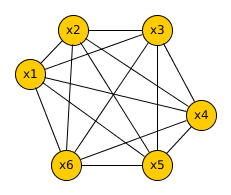
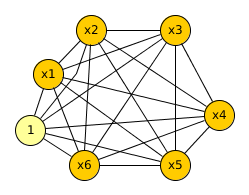
Poprawka obrazków, dodanie biasu

Changed region(s): [[0.0606, 0.0615, 0.9697, 0.9538], [0.2121, 0.2462, 0.2424, 0.2769]]

diff --git a/doc/rpt_ntwon.tex b/doc/rpt_ntwon.tex
@@ -60,12 +60,15 @@ Uczenie takiego modelu było bardzo trudne i długotrwałe, a jakość wyników 
 (jak na taki czas generowania modelu). Ograniczono, więc liczbę połączeń w sieci, wierzchołki podzielono
 na dwie grupy warstwę widoczną i warstwę ukrytą. W nowym modelu ograniczonej maszynie Boltzmanna (ang.
 \textit{Restricted Boltzmann Machine}) usunięto wszystkie połączenia pomiędzy neuronami tej samej
-warstwy.
+warstwy. Łącznie wektor wartości neuronów warstwy widocznej oznaczamy $\mathbf{x}=[x_1, x_2,\dots, x_M]$,
+natomiast wektor wartości neuronów warstwy ukrytej oznaczamy przez $\mathbf{h}=[h_1, h_2,\dots, h_N]$.
+Ponad to w modelu wstawia się dla każdej warstwy dodatkowy neuron zapewniający \textbf{bias}, którego
+wartość jest stała i równa jeden.
 
 \begin{figure}
  \centering
  \includegraphics[width=5cm]{imgs/rbm.png}
- \label{fig:bm}
+ \label{fig:rbm}
 \caption{Ograniczona maszyna Boltzmanna, połączenia występują pomiędzy wyszystkimi neuronami z różnych
 warstw}
 \end{figure} 
